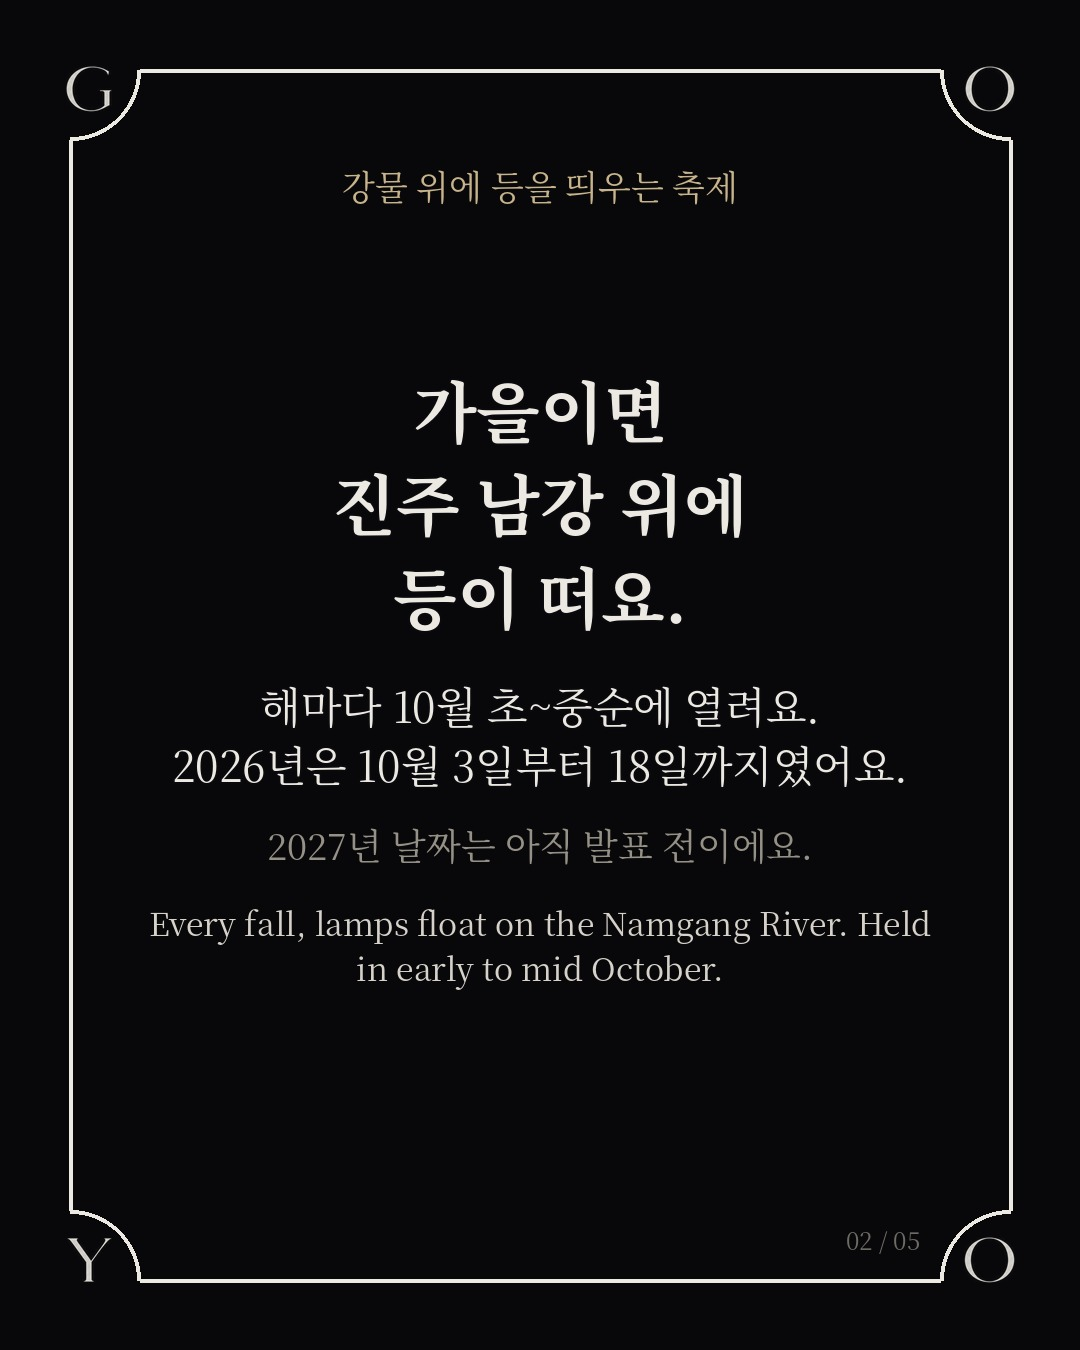
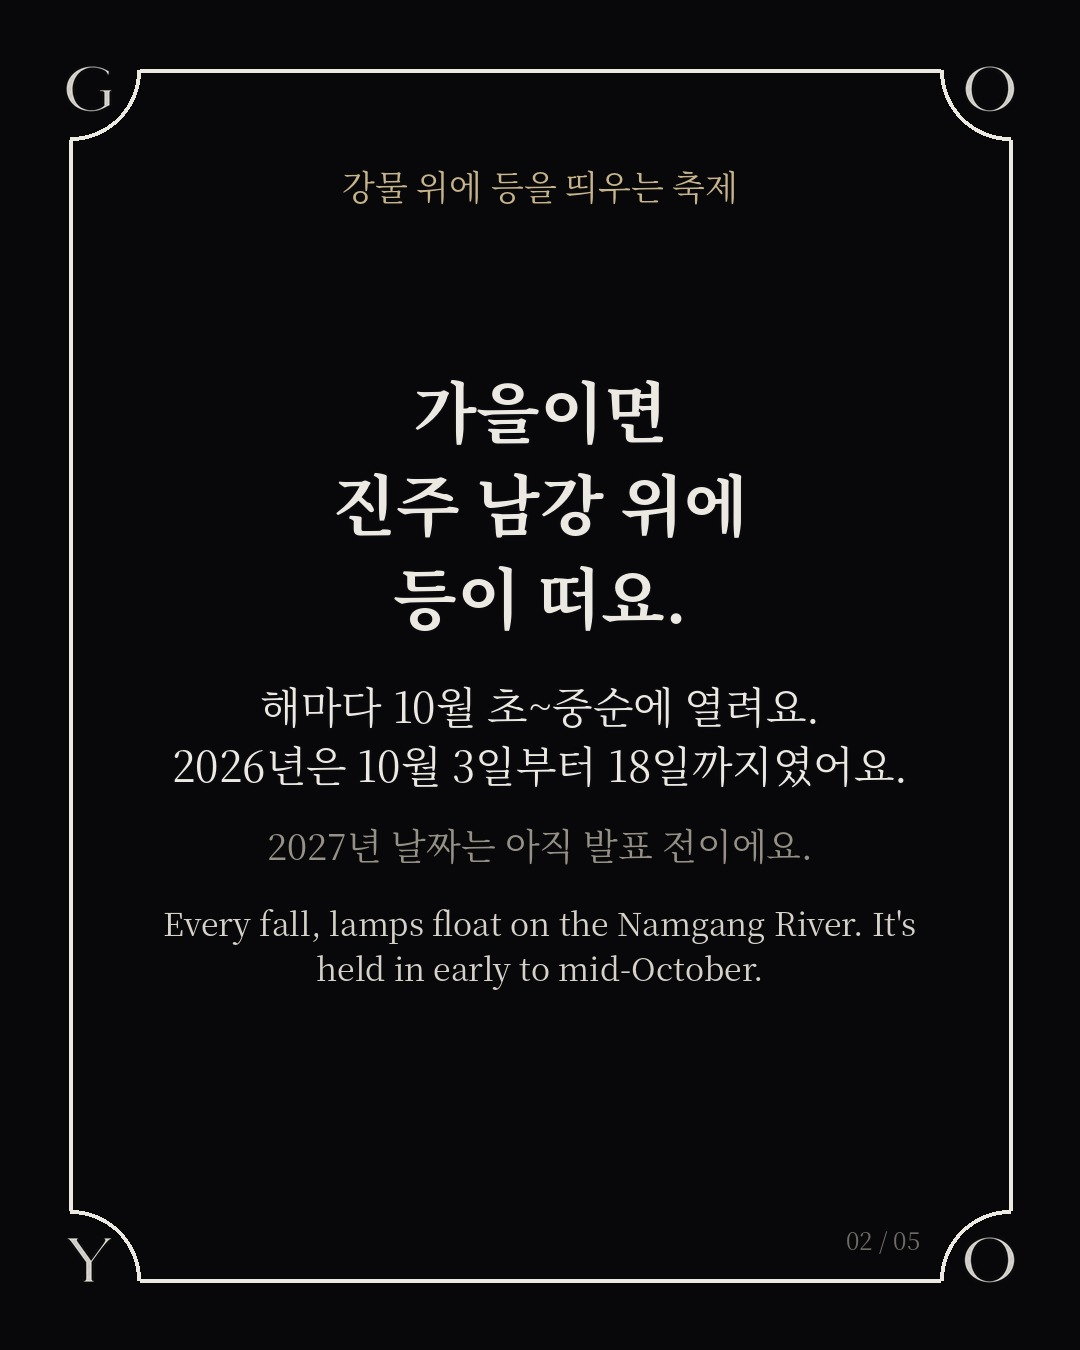
1/3 진주 남강유등 검토 반영(사실 확인 통과, 영어 다듬기)
Claude-Session: https://claude.ai/code/session_01YKKUv5W4Y1G1o2h4KJ6tQ6

Changed region(s): [[0.1528, 0.6533, 0.7944, 0.7467], [0.825, 0.6533, 0.8556, 0.7156]]

diff --git a/jeongmi/build.py b/jeongmi/build.py
@@ -346,11 +346,11 @@ P['0103j'] = dict(
      T('경남 진주 남강유등축제', 48, gap=30), T('Lamps on the river · Jinju, Korea', 38, EN, gap=0)]),
   S([T('가을이면\n진주 남강 위에\n등이 떠요.', 66, bold=True, gap=34), T('해마다 10월 초~중순에 열려요.\n2026년은 10월 3일부터 18일까지였어요.', 42, gap=26),
      T('2027년 날짜는 아직 발표 전이에요.', 36, [150, 145, 135], gap=30),
-     T('Every fall, lamps float on the Namgang River. Held in early to mid October.', 32, EN, gap=0)], tag='강물 위에 등을 띄우는 축제'),
+     T('Every fall, lamps float on the Namgang River. It\'s held in early to mid-October.', 32, EN, gap=0)], tag='강물 위에 등을 띄우는 축제'),
   S([T('임진왜란 진주성 전투 때', 50, gap=20), T('남강에 등을 띄워\n강을 건너려는 적을 막고,\n성 밖 가족에게\n안부를 전했다고 해요.', 58, bold=True, gap=36),
      T('It began with a 1590s battle at Jinju Fortress: river lamps held back the enemy and carried word home.', 32, EN, gap=0)], tag='왜 강에 등을 띄웠을까요'),
   S([T('2027년의 글자는\n가까운 곳을 오래 비추는 등불.', 54, gap=30), T('그 등불이\n넓은 강물 위에\n떠 있는 곳이에요.', 60, bold=True, gap=36),
-     T('2027 is the year of the lamp. Here, the lamps float on a wide river.', 34, EN, gap=0)], tag='등불과 강물이 한 장면에'),
+     T('In 2027, the year\'s character is a lamp. Here, the lamps float on a wide river.', 34, EN, gap=0)], tag='등불과 강물이 한 장면에'),
   S([T('다섯 가지 고요', 56, bold=True, gap=10), T('임수 편', 96, bold=True, gap=34),
      T('등불을 싣고 흐르는\n넓은 강물 같은 소리예요.', 52, gap=24), T('첫 곡은 『Wide Water』예요.', 44, gap=30),
      T('음악은 프로필 링크에서', 46, GOLD, gap=30),
@@ -385,11 +385,11 @@ P['0103j'] = dict(
 · English ·
 Lamps on the river: the Jinju Namgang Yudeung Festival.
 
-Every fall, countless lamps float on the Namgang River in Jinju, Korea. The festival runs in early to mid October; in 2026 it ran October 3 to 18. The 2027 dates are not out yet, so check the city's notice before you go.
+Every fall, countless lamps float on the Namgang River in Jinju, Korea. The festival runs in early to mid-October; in 2026 it ran October 3 to 18. The 2027 dates are not out yet, so check the city's notice before you go.
 
 The custom goes back to the 1590s and a battle at Jinju Fortress: lamps floated on the river held back the enemy and carried word to families outside the walls.
 
-2027 is the year of the lamp, a light that stays close. Here, those lamps float on a wide river, so we picked it as a place to visit this year.
+In 2027, the year's character is a lamp: a light that stays close. Here, those lamps float on a wide river, so we picked it as a place to visit this year.
 
 Music like a wide river carrying lamps: Five Kinds of Quiet · 壬水 Yang Water (Imsu). The first track is Wide Water. Listen through the link in bio.
 
@@ -401,7 +401,7 @@ Music like a wide river carrying lamps: Five Kinds of Quiet · 壬水 Yang Water
 지금 흐르는 음악은 『다섯 가지 고요｜임수(壬水)』의 첫 곡 『Wide Water』, 프로필 링크에서 들을 수 있어요.
 
 · English ·
-Lamps on the river: every fall in Jinju, Korea, lamps float on the Namgang River. The festival began with a battle in the 1590s, when river lamps held back the enemy and carried word to families. Why it suits 2027 is in our feed post.
+Lamps on the river: every fall in Jinju, Korea, lamps float on the Namgang River. The festival began with a battle in the 1590s, when river lamps held back the enemy and carried word to families. Our feed post explains why it suits 2027.
 
 The music is Wide Water from Five Kinds of Quiet · 壬水 Yang Water (Imsu). Listen through the link in bio.
 
